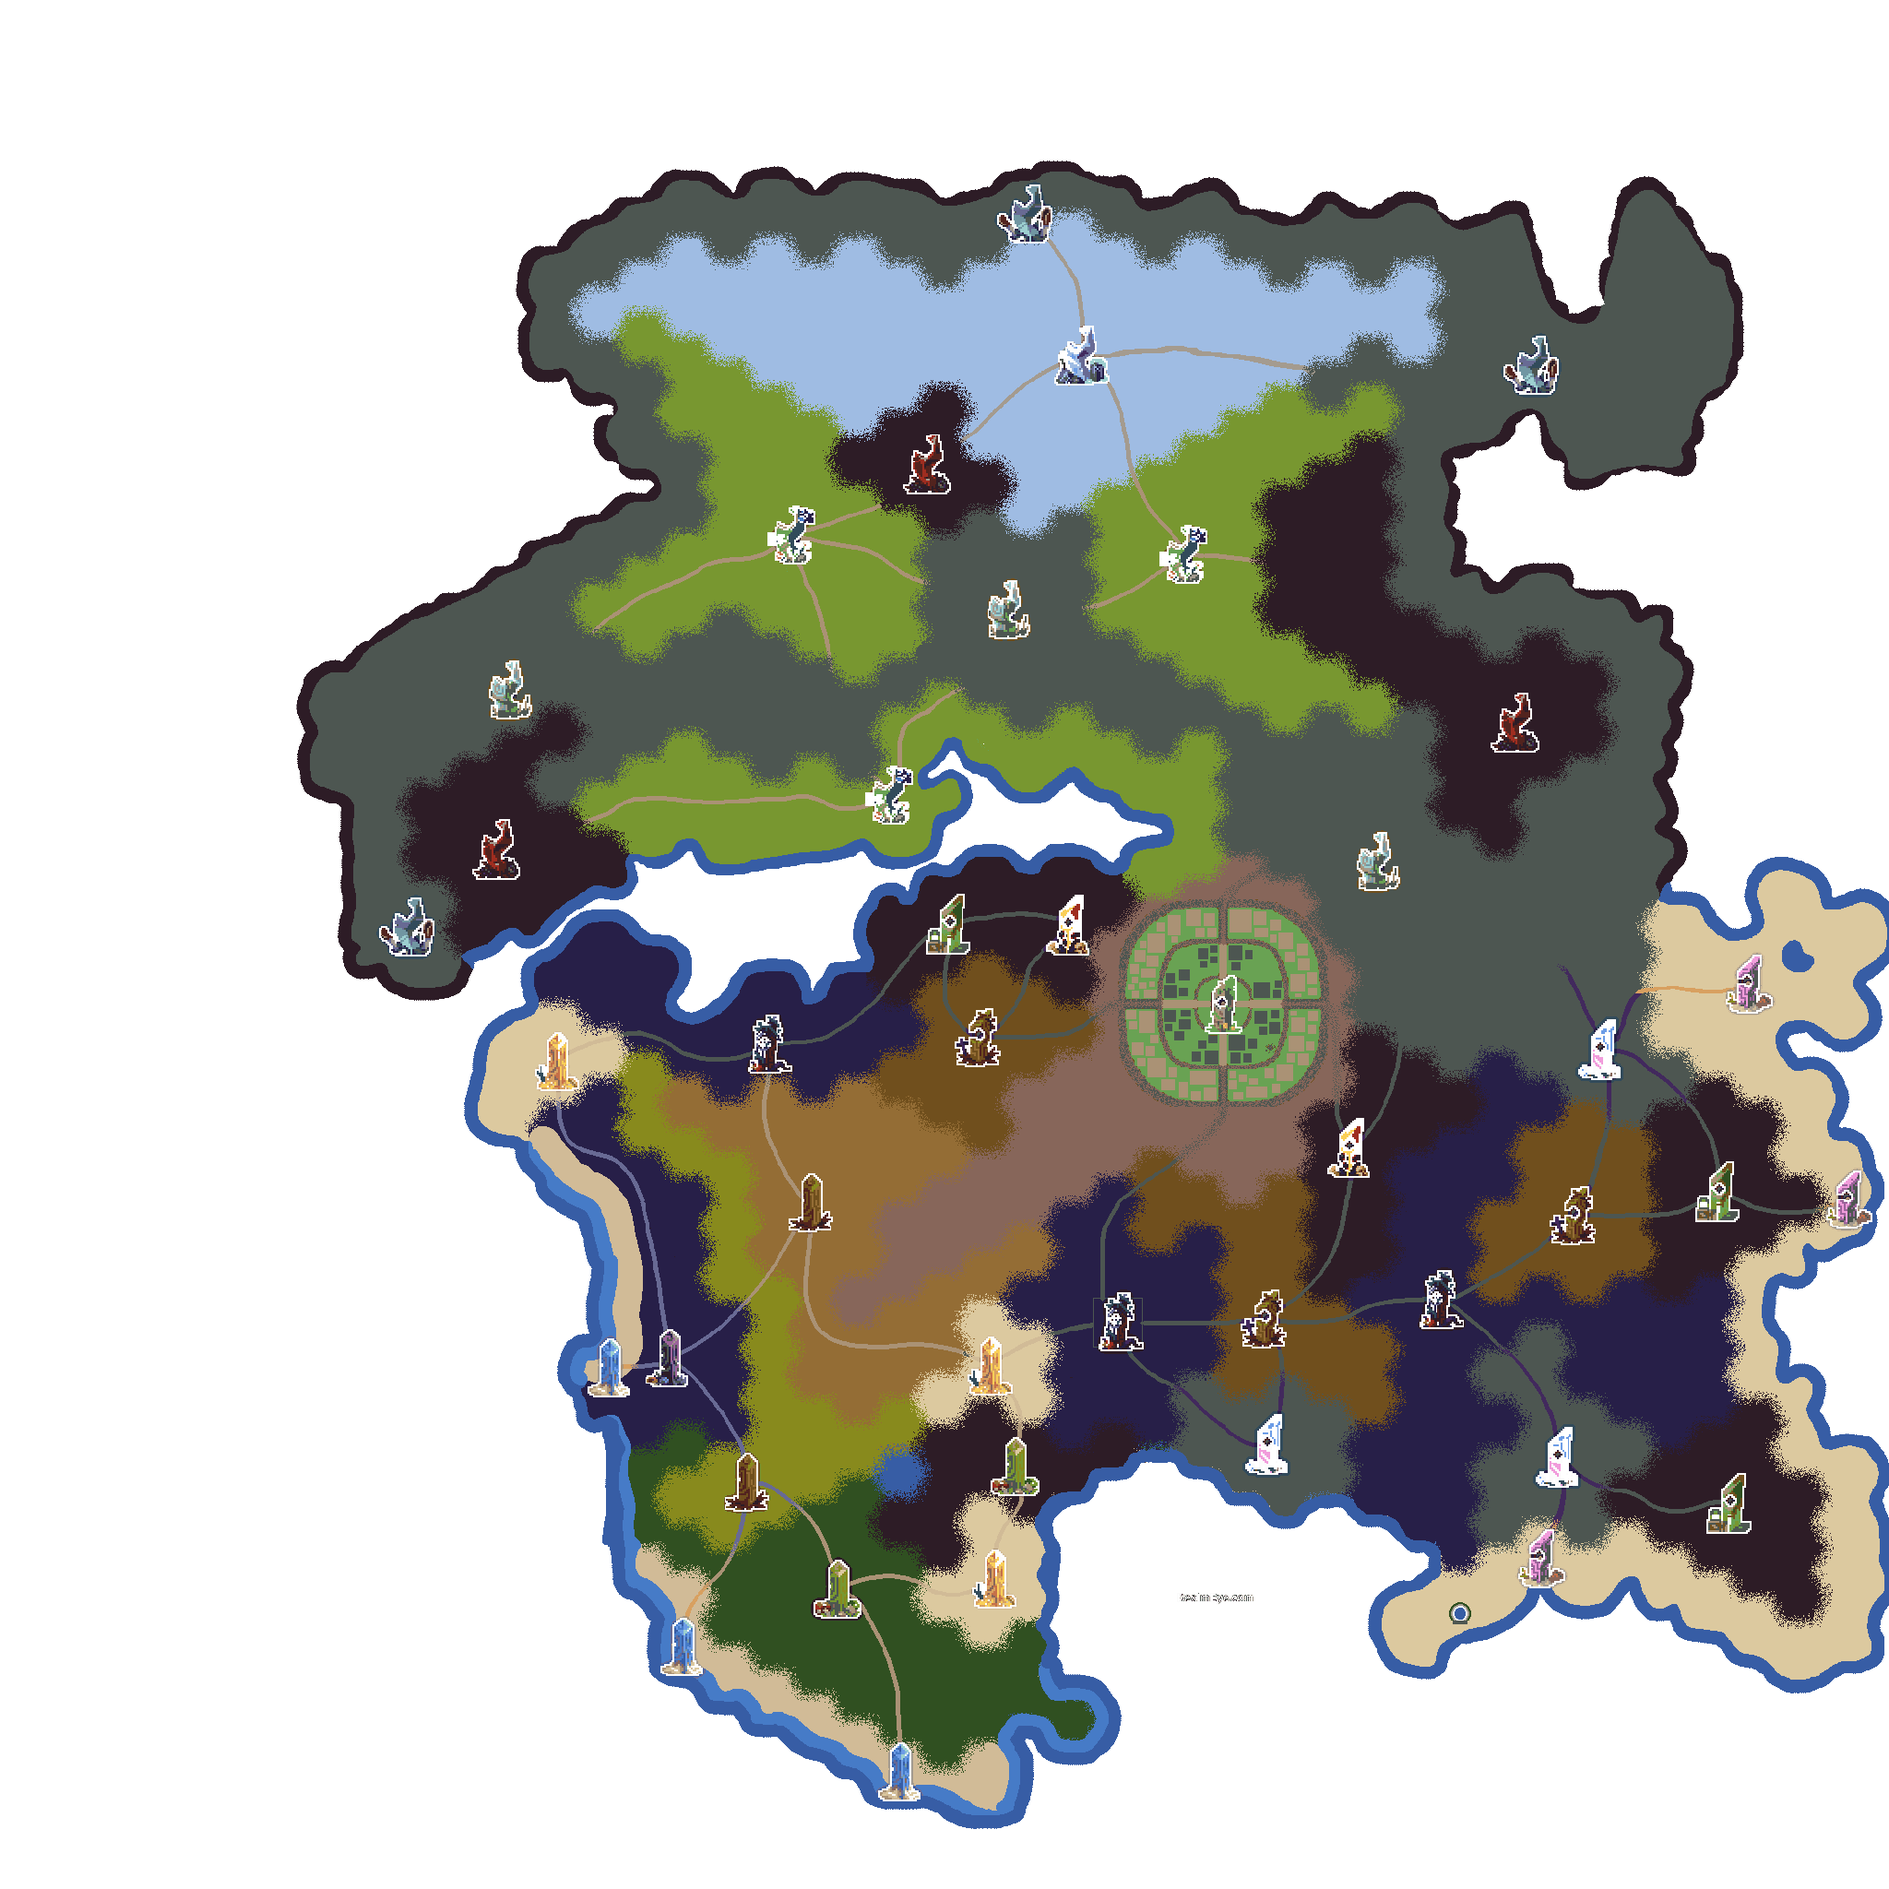
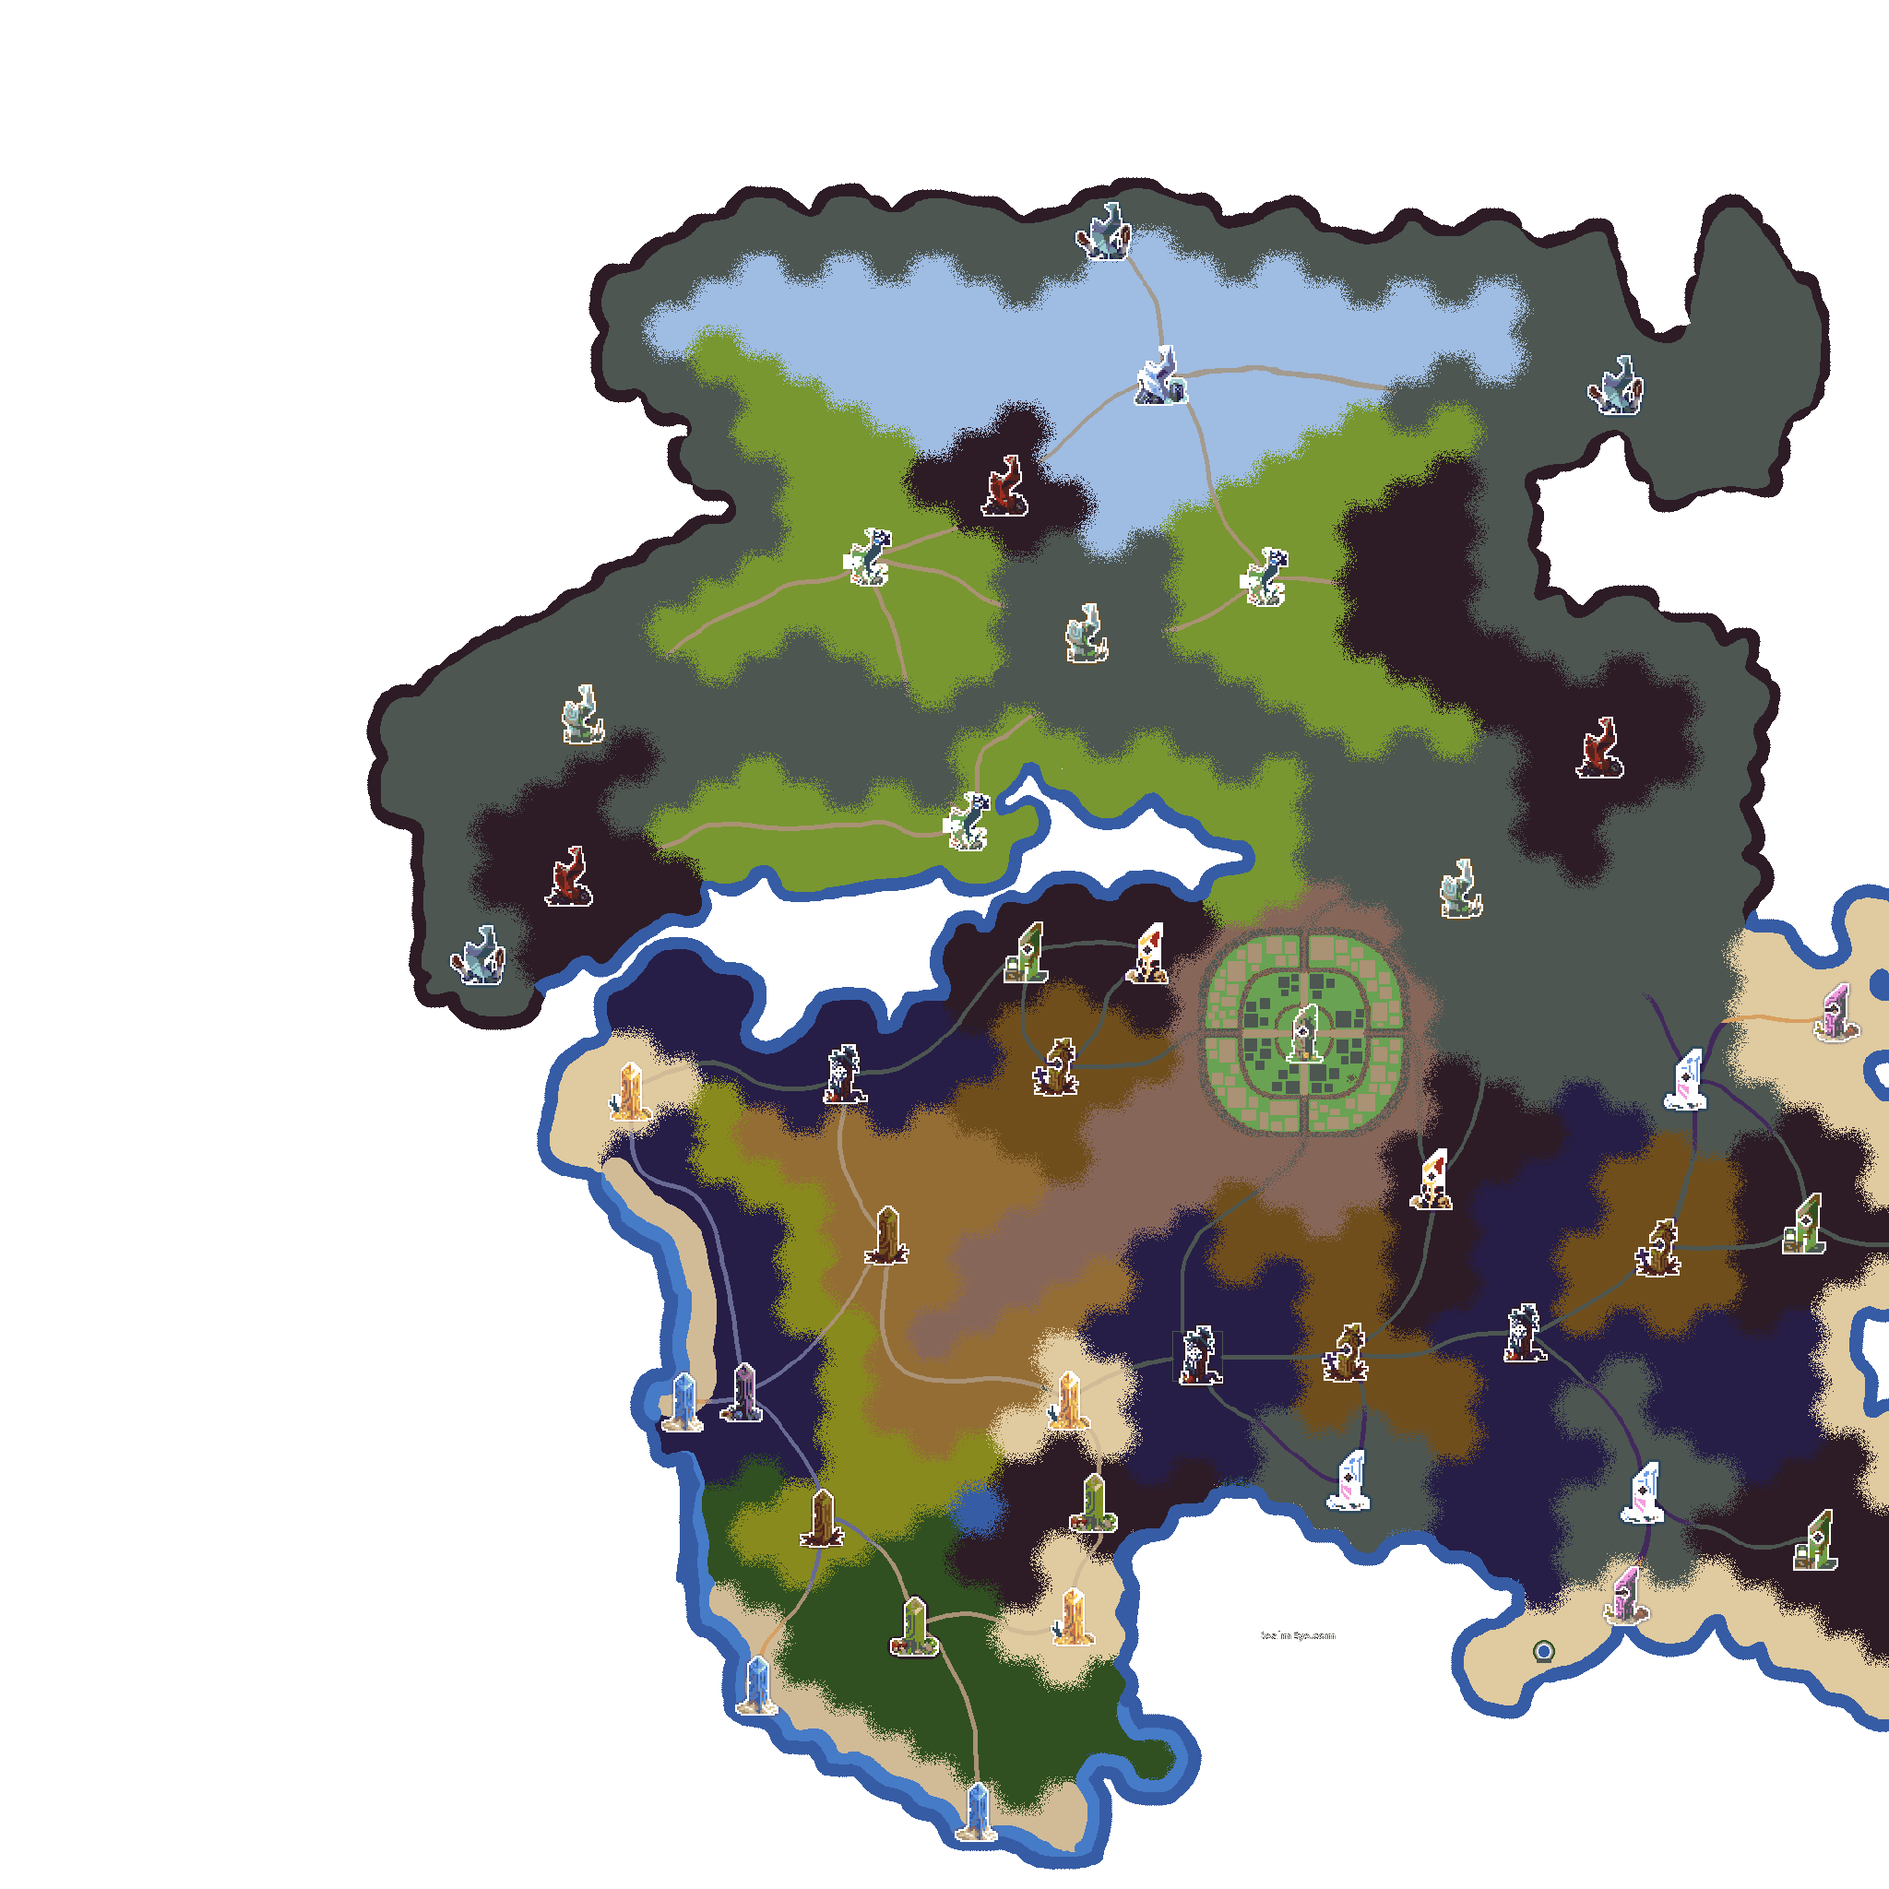
2.53.1 - the realm lines up and stays up; the Nexus is the right size
Realm chart re-fitted (scale 1.023 x 1.020, offset -406,-196; balanced 90.8%),
water floor at blue >= 85 so the chart's navy forest no longer votes it off,
balanced online vote, laid down on arrival even with a recording, recordings
written from the wire and own runs only. Nexus re-baked at 4.1 px/tile from a
clean recording; confirmed live 1200/0. Vault confirmed live.

Claude-Session: https://claude.ai/code/session_018UYKXESrWTKvUcwzXH1CDy

diff --git a/src/main/java/sonar/ui/MinimapView.java b/src/main/java/sonar/ui/MinimapView.java
@@ -58,6 +58,16 @@ final class MinimapView {
     private static volatile boolean judged;
 
     /**
+     * The votes split by what the wire said the square was, for an approximate map.
+     * <p>
+     * A walked strip is mostly land, and a render's coast is drawn thick, so the squares along
+     * a beach disagree with any render however right it is. Counted plainly that can outvote
+     * everything else; counted as two recalls and averaged it cannot, which is exactly how the
+     * map was recognised in the first place.
+     */
+    private static volatile int waterSeen, waterAgreed, landSeen, landAgreed;
+
+    /**
      * Whether the recalled map is a render rather than a recording.
      * <p>
      * A layout Sonar ships is somebody's picture of the realm, not a copy of Sonar's own tile
@@ -140,7 +150,7 @@ final class MinimapView {
             }
         }
         recalled = recording;
-        agreed = disagreed = 0;
+        agreed = disagreed = waterSeen = waterAgreed = landSeen = landAgreed = 0;
         judged = false;
         painted += laid;
         return laid;
@@ -171,7 +181,7 @@ final class MinimapView {
         }
         MinimapView.laid = mine;
         recalled = recording;
-        agreed = disagreed = 0;
+        agreed = disagreed = waterSeen = waterAgreed = landSeen = landAgreed = 0;
         judged = false;
         painted += laid;
         return laid;
@@ -218,6 +228,28 @@ final class MinimapView {
     }
 
     /**
+     * A still copy of only what is this person's own: the wire and their earlier recordings,
+     * never a shipped render.
+     * <p>
+     * A recording written from the whole picture quietly absorbed every square a shipped map
+     * had laid down, so the file that was supposed to be ground truth about the game came
+     * back part-render. Then the render was aligned against it, and agreed with itself.
+     */
+    static synchronized BufferedImage copyOwn() {
+        BufferedImage out = copy();
+        if (out == null) return null;
+        java.util.BitSet put = laid, seen = wire;
+        if (put == null) return out;
+        for (int y = 0; y < height; y++) {
+            for (int x = 0; x < width; x++) {
+                int bit = x + y * width;
+                if (put.get(bit) && !(seen != null && seen.get(bit))) out.setRGB(x, y, 0);
+            }
+        }
+        return out;
+    }
+
+    /**
      * Paints one tile, in the colour that tile is drawn as on a minimap.
      * <p>
      * The colour comes from the extracted sprite sheet, where every sprite carries its most
@@ -246,9 +278,20 @@ final class MinimapView {
         if (memory != null && x < memory.getWidth() && y < memory.getHeight()) {
             int remembered = memory.getRGB(x, y);
             if ((remembered >>> 24) != 0) {
-                boolean alike = approximate
-                        ? MinimapCache.isWater(remembered) == MinimapCache.isWater(rgb)
-                        : (remembered & 0xFFFFFF) == (rgb & 0xFFFFFF);
+                boolean alike;
+                if (approximate) {
+                    boolean mine = MinimapCache.isWater(rgb);
+                    alike = MinimapCache.isWater(remembered) == mine;
+                    if (mine) {
+                        waterSeen++;
+                        if (alike) waterAgreed++;
+                    } else {
+                        landSeen++;
+                        if (alike) landAgreed++;
+                    }
+                } else {
+                    alike = (remembered & 0xFFFFFF) == (rgb & 0xFFFFFF);
+                }
                 if (alike) agreed++;
                 else disagreed++;
             }
@@ -265,7 +308,18 @@ final class MinimapView {
         }
         if (!judged && memory != null && agreed + disagreed >= ENOUGH_TO_JUDGE) {
             judged = true;
-            if (disagreed > agreed) forgetRecalled();
+            boolean wrong;
+            if (approximate && waterSeen > 0 && landSeen > 0) {
+                double balanced = 0.5 * (waterAgreed / (double) waterSeen + landAgreed / (double) landSeen);
+                wrong = balanced < 0.60;
+                System.out.println(String.format("[map] recalled map judged by the coast: water %d/%d, land %d/%d, balanced %.0f%% -> %s",
+                        waterAgreed, waterSeen, landAgreed, landSeen, 100 * balanced, wrong ? "DROPPED" : "kept"));
+            } else {
+                wrong = disagreed > agreed;
+                System.out.println("[map] recalled map judged: " + agreed + " agree, " + disagreed + " disagree -> "
+                        + (wrong ? "DROPPED" : "kept"));
+            }
+            if (wrong) forgetRecalled();
         }
     }
 

diff --git a/src/main/java/sonar/ui/MinimapCache.java b/src/main/java/sonar/ui/MinimapCache.java
@@ -194,7 +194,12 @@ final class MinimapCache {
     static int terrainOf(int argb) {
         if ((argb >>> 24) == 0) return UNKNOWN;
         int r = (argb >> 16) & 0xFF, g = (argb >> 8) & 0xFF, b = argb & 0xFF;
-        if (b > r + 25 && b > g + 15) return WATER;
+        // Sea is a bright blue. A biome chart draws its dark forest in navy and purple, which
+        // is "more blue than red or green" and nothing like water; measured, that rule called
+        // twenty-three thousand forest squares sea and voted a correct realm map off the
+        // screen. The floor sits between the chart's forest (blue 64) and the dimmest water
+        // tile Sonar has recorded (blue 91).
+        if (b >= 85 && b > r + 25 && b > g + 15) return WATER;
         int brightest = Math.max(r, Math.max(g, b));
         if (brightest < 95) return DARK;
         // Olive plains - green no brighter than red - are the commonest ground in a render of
@@ -393,7 +398,9 @@ final class MinimapCache {
         triedShipped = true;
         Thread t = new Thread(() -> {
             try {
-                BufferedImage live = MinimapView.copy();
+                // only what came off the wire or out of this person's own runs: a shipped map
+                // already laid must not be allowed to recognise itself
+                BufferedImage live = MinimapView.copyOwn();
                 if (live == null) return;
                 java.util.List<File> layouts = matchedLayout != 0
                         ? java.util.Collections.<File>emptyList()   // already using one of mine
@@ -437,8 +444,11 @@ final class MinimapCache {
                         }
                     }
                     if (worldNo == 0) {
-                        trouble = known == 0 ? "this layout has not been seen before"
-                                : "none of the " + known + " known worlds matched (best was "
+                        // No world library for a map this size is not a finding about this map;
+                        // a Nexus with its own shipped layout already down was being told it
+                        // had never been seen before.
+                        if (known == 0) return;
+                        trouble = "none of the " + known + " known worlds matched (best was "
                                         + bestOfAny + " of " + comparedOfAny + ")";
                         System.out.println("[map] " + trouble + " for " + mapName + " with "
                                 + MinimapView.fromWire() + " tiles off the wire");
@@ -561,6 +571,14 @@ final class MinimapCache {
             return 0;
         }
         int primed = MinimapView.prime(recorded);
+        // The one shipped realm goes under a recording too, on arrival. It used to wait to be
+        // recognised from walked ground first, which took a sight-disc of tiles and a thread,
+        // and meant the realm was the one map that was not whole the moment you arrived.
+        if (shipped == null && shippedCount(w, h) == 1) {
+            shipped = shippedLayout(w, h, 1);
+            matchedShipped = 1;
+            triedShipped = true;
+        }
         if (shipped != null && shipped.getWidth() == w && shipped.getHeight() == h) {
             // the whole map under what has been walked; a render, so the coast votes on it
             MinimapView.setRecalledIsApproximate(true);
@@ -614,7 +632,7 @@ final class MinimapCache {
         keptAtTiles = seen;
         final String name = openName;
         final int w = openW, h = openH;
-        final BufferedImage snap = MinimapView.copy();
+        final BufferedImage snap = MinimapView.copyOwn();
         if (snap == null) return;
         Thread t = new Thread(() -> write(name, w, h, into, snap), "sonar-map-keep");
         t.setDaemon(true);
@@ -641,7 +659,7 @@ final class MinimapCache {
         matchedLayout = 0;
         if (into <= 0) return;
         if (MinimapView.fromWire() <= 0) return;   // nothing new was seen; the file already says it
-        final BufferedImage snap = MinimapView.copy();
+        final BufferedImage snap = MinimapView.copyOwn();
         if (snap == null) return;
         if (inline) {
             write(name, w, h, into, snap);

diff --git a/src/main/java/sonar/ui/Updater.java b/src/main/java/sonar/ui/Updater.java
@@ -34,7 +34,7 @@ import java.util.zip.ZipInputStream;
 final class Updater {
 
     /** Version of this build. Raise it for each release; tools/make-release.ps1 reads it for the zip name. */
-    static final String CURRENT = "2.53.0";
+    static final String CURRENT = "2.53.1";
 
     private static final String REPOSITORY = "https://github.com/JustAutomate-AI/sonar-rotmg";
     private static final String LATEST = REPOSITORY + "/releases/latest";

diff --git a/src/main/java/sonar/version/Version.java b/src/main/java/sonar/version/Version.java
@@ -8,7 +8,7 @@ public class Version {
      * The app's version, the one shown in the left rail and used for release names.
      * Comes from Updater.CURRENT, which is where it is raised.
      */
-    public static final String VERSION = "2.53.0";
+    public static final String VERSION = "2.53.1";
 
     /**
      * The asset-extraction format, which is NOT the app's version and does not move

diff --git a/CHANGELOG.md b/CHANGELOG.md
@@ -2,6 +2,20 @@
 
 Every release of Sonar, newest first. The version number is also shown at the bottom of the app's left rail.
 
+## 2.53.1
+
+**The realm lines up, and stays up**
+
+Reported from play: the realm was recognised, laid down, and gone again; the Nexus was whole but the wrong size. Both were alignment, as the report said.
+
+- **The realm chart is re-fitted against a denser recording of the spawn beach**: scale 1.023 × 1.020, offset (−406, −196) — 74 tiles west of the previous fit. Checked over every recorded square, not a sample: **balanced 90.8%, water 91%, land 91%**. The previous fit scored 69% on land over the same ground.
+- **The Nexus is the right size.** The Halloween Nexus render was baked at 2.98 pixels a tile against a recording that had itself absorbed an earlier render; re-fitted by full-colour correlation against a clean recording it is 4.1 pixels a tile, origin (18, 11) - a single, unambiguous peak. Confirmed in play: 32,298 squares laid down on arrival, and the first 1,200 live tiles voted 1,200 agree, 0 disagree.
+- **The Vault, confirmed in play:** the whole island the moment the portal opens, 4,293 squares, 1,961 of them from the wire.
+- **It no longer votes itself off the screen.** The chart draws its dark forest in navy, and "more blue than red or green" called twenty-three thousand forest squares water, so every forest beside the beach voted against the map until it was discarded. Water now needs a blue channel of at least 85 — between the chart's forest at 64 and the dimmest sea tile Sonar has recorded at 91. And the online judgement is balanced, like the recognition: water and land counted separately and averaged, so a thick drawn coastline under a walked beach cannot outvote everything else. The verdict is logged either way.
+- **It is laid down on arrival even when you have a recording.** It used to wait to be recognised from walked ground first, which took a sight-disc of tiles and a thread.
+- **Your recordings stay yours.** A recording written from the whole picture absorbed every square a shipped map had laid down, so the file that was supposed to be ground truth about the game came back part-render — and the render was then aligned against it. Recordings are written from the wire and your earlier runs only, and matching reads only those too, so a shipped map can never recognise itself.
+- A map with its own shipped layout is no longer told it "has not been seen before" because there is no world library for its size.
+
 ## 2.53.0
 
 **The Nexus and the Vault are whole the moment you arrive**
